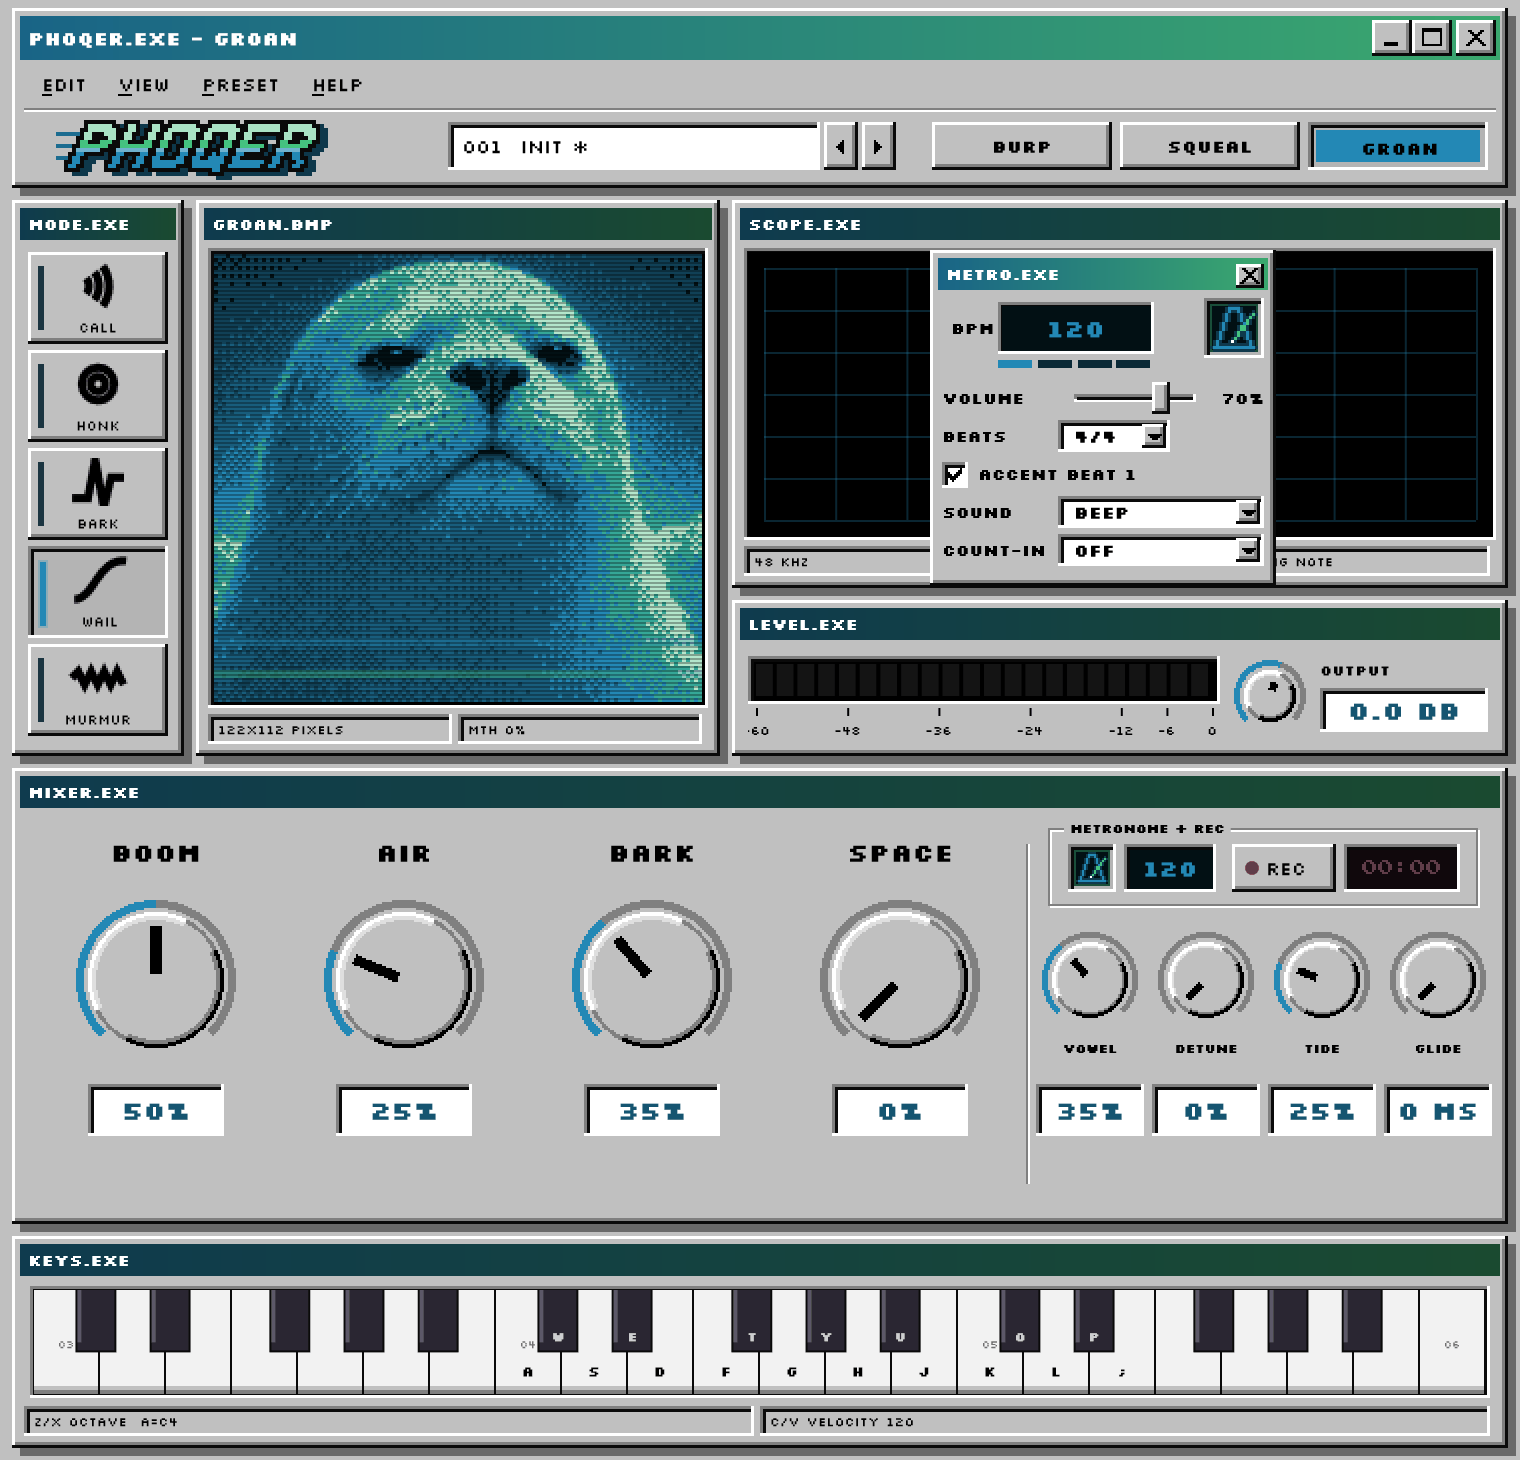
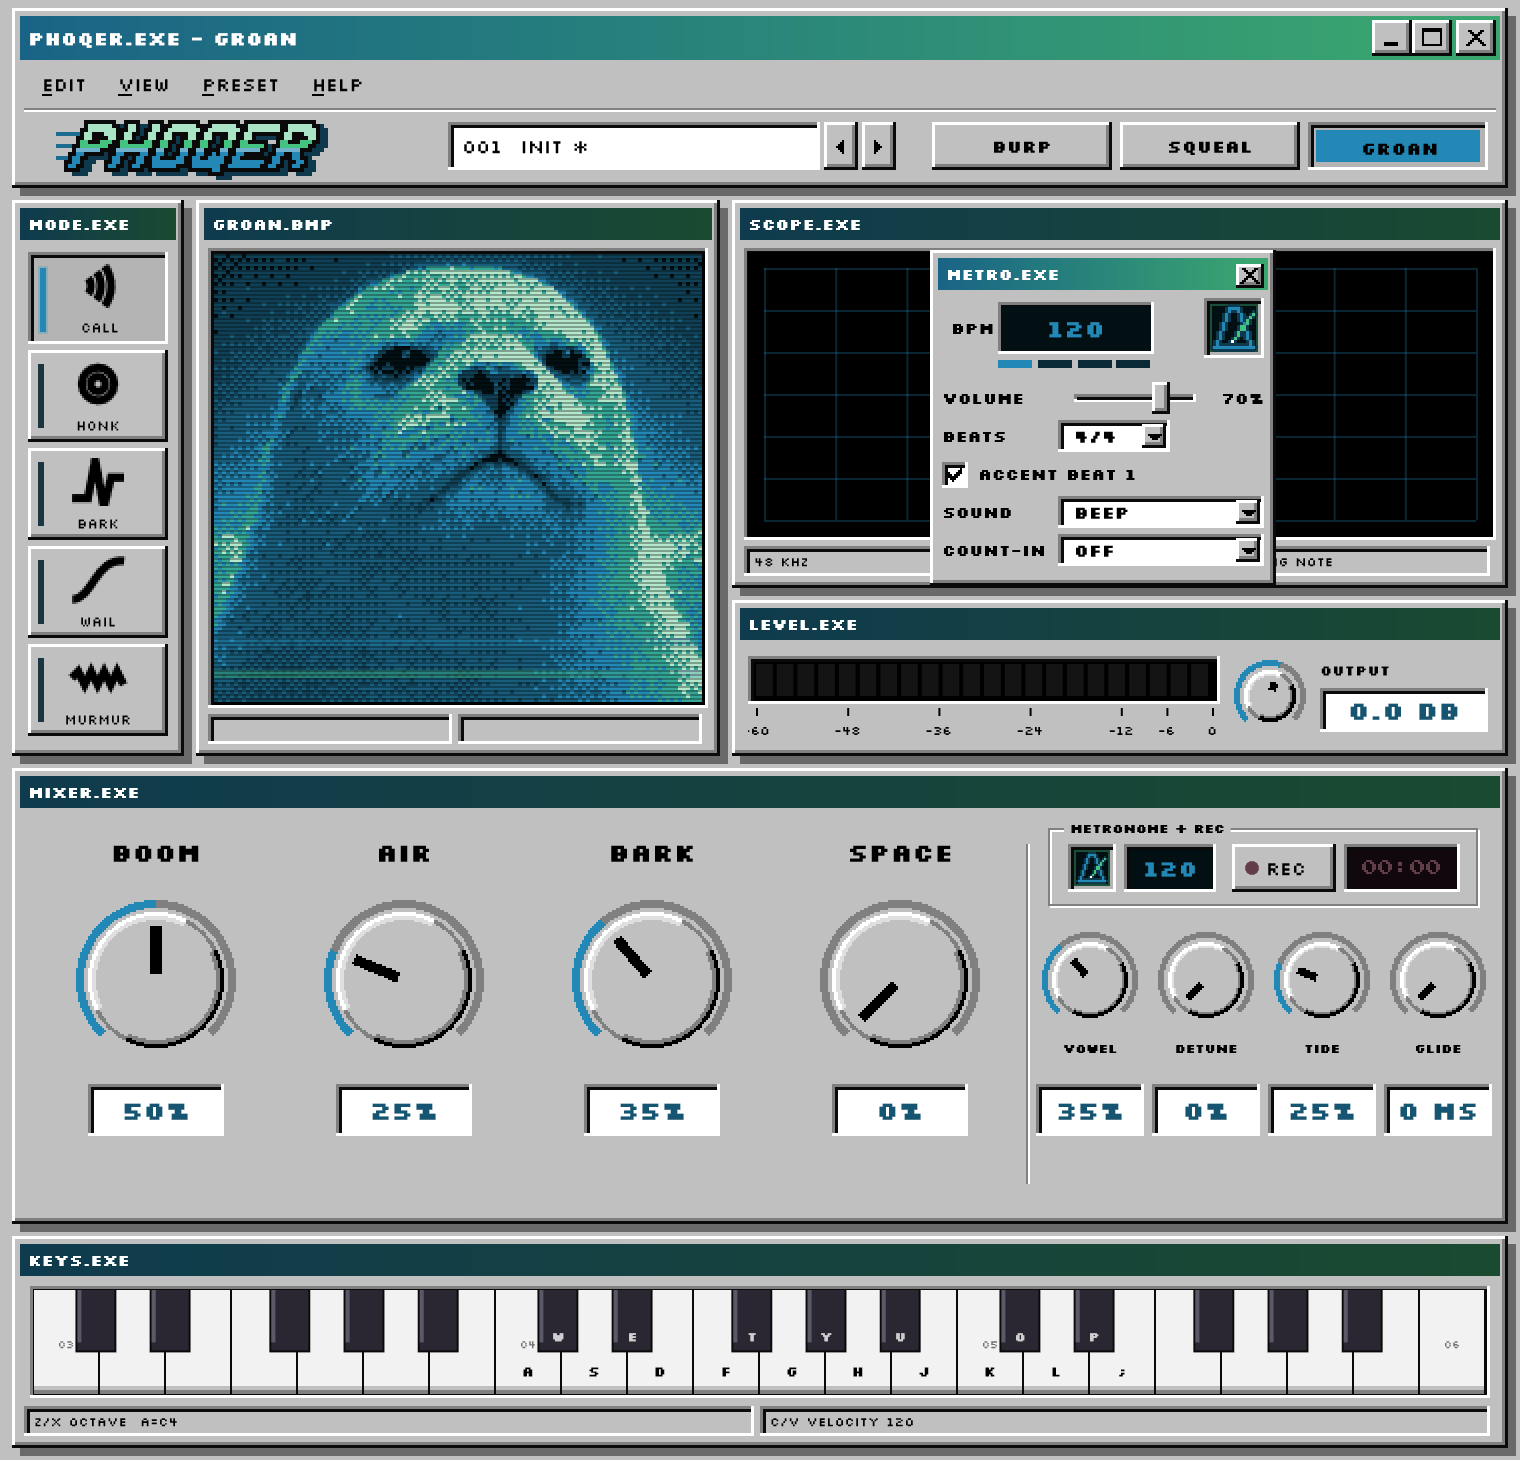
README: the full tour, with the wordmark and animated seals
Seals, moods, controls, the standalone app, presets and interface, downloads, and folded technical details, manual installation and build steps. Every seal is shown in the same mood.

Changed region(s): [[0.1546, 0.1541, 0.4638, 0.4932], [0.0, 0.1541, 0.1237, 0.2466], [0.0, 0.3699, 0.1237, 0.4623]]

diff --git a/README.md b/README.md
@@ -1,163 +1,177 @@
 <p align="center">
-  <img src="Media/PHOQER_Logo.png" width="360" alt="PHOQER: an angry pixel seal on the wordmark">
+  <img src="Media/PHOQER_Logo.png" width="340" alt="PHOQER">
 </p>
 
-<p align="center"><strong>A seal you can play.</strong><br>
-A synthetic vocal instrument for Windows: three seals, five moods, eight voices, no samples.</p>
+<p align="center"><em>A seal you can play. A synthetic vocal instrument for Windows.</em></p>
 
 <p align="center">
   <a href="https://github.com/lew0nn/phoqer/releases/tag/v1.0.0"><img alt="Version 1.0.0" src="https://img.shields.io/badge/version-1.0.0-FF2D55?style=flat-square&amp;labelColor=12040A"></a>
-  <a href="#download"><img alt="Windows x64" src="https://img.shields.io/badge/platform-Windows%20x64-E04BFF?style=flat-square&amp;labelColor=07031A"></a>
-  <a href="#download"><img alt="VST3 and standalone" src="https://img.shields.io/badge/formats-VST3%20%7C%20Standalone-2388B5?style=flat-square&amp;labelColor=021014"></a>
-  <a href="LICENSE"><img alt="GNU AGPL v3" src="https://img.shields.io/badge/license-AGPL%203.0-44C27F?style=flat-square&amp;labelColor=021014"></a>
-  <a href="https://github.com/lew0nn/phoqer/releases/latest"><img alt="Downloads" src="https://img.shields.io/github/downloads/lew0nn/phoqer/total?style=flat-square&amp;label=downloads&amp;labelColor=12040A&amp;color=FF9F1C"></a>
+  <a href="#download"><img alt="Windows x64" src="https://img.shields.io/badge/platform-Windows%20x64-0078D4?style=flat-square&amp;labelColor=17202A"></a>
+  <a href="#download"><img alt="VST3 and standalone" src="https://img.shields.io/badge/formats-VST3%20%7C%20Standalone-E04BFF?style=flat-square&amp;labelColor=07031A"></a>
+  <a href="https://github.com/juce-framework/JUCE/releases/tag/8.0.8"><img alt="JUCE 8.0.8" src="https://img.shields.io/badge/JUCE-8.0.8-00A8B5?style=flat-square&amp;labelColor=152326"></a>
+  <a href="CMakeLists.txt"><img alt="C++17" src="https://img.shields.io/badge/C%2B%2B-17-F0A030?style=flat-square&amp;labelColor=282116"></a>
+  <a href="LICENSE"><img alt="GNU AGPL v3" src="https://img.shields.io/badge/license-AGPL%203.0-44C27F?style=flat-square&amp;labelColor=021014&amp;logo=gnu&amp;logoColor=white"></a>
+  <a href="https://github.com/lew0nn/phoqer/releases/latest"><img alt="Downloads" src="https://img.shields.io/github/downloads/lew0nn/phoqer/total?style=flat-square&amp;label=downloads&amp;labelColor=12040A&amp;color=FF9F1C&amp;logo=github&amp;logoColor=white"></a>
 </p>
 
 <p align="center">
-  <img src="Media/PHOQER.png" width="100%" alt="PHOQER mid-call: BURP singing in the portrait, its wave on SCOPE.EXE, the mixer knobs and the keyboard below">
+  <img src="Media/PHOQER.gif" width="100%" alt="PHOQER switching between its three seals, BURP, SQUEAL and GROAN, each mid-call">
 </p>
 
-<p align="center"><a href="#download"><strong>Download PHOQER 1.0.0</strong></a> &middot; free and open source</p>
+<p align="center"><strong>Three seals, five moods, eight voices. No samples.</strong></p>
 
-## Meet the seals
+PHOQER builds every call while you play it. Formant-wave-function synthesis, the technique behind
+Chant and Delay Lama, makes each resonance of the seal's throat from overlapping grains, shaped by
+formant tables and pitch contours measured from real seal calls. The recordings were the reference;
+none of them are in the instrument.
+
+## Seals
 
 <p align="center">
-  <img src="Media/PHOQER_Seals.png" width="100%" alt="The three seals mid-call: BURP in red, SQUEAL in purple, GROAN in ocean blue to green">
+  <img src="Media/PHOQER_Seals.gif" width="100%" alt="BURP, SQUEAL and GROAN calling together">
 </p>
 
-- **BURP** is the bass: a low, rough bark whose growl comes from jitter and period doubling,
-  not breath. The default, and the best seal.
-- **SQUEAL** yelps: short, bright bursts that start high, drop, then lift again.
-- **GROAN** moans: a long, warm "ooh" that scoops up into the note and sways with a slow vibrato.
+- **BURP:** the bass, and the default. A low, rough bark whose growl comes from jitter and period
+  doubling, not breath.
+- **SQUEAL:** short, bright yelps that start high, drop, then lift again.
+- **GROAN:** a long, warm "ooh" that scoops up into the note and sways with a slow vibrato.
 
-None of them are recordings. Every call is built while you play it, by formant-wave-function
-synthesis, the technique behind Chant and Delay Lama: each resonance of the seal's throat is
-made of overlapping grains, shaped by formant tables and pitch contours measured from real seal
-calls. The recordings were the reference; none of them are in the instrument.
+Each seal has its own colours, and its portrait reacts as it sings.
 
-## Five moods
+## Moods
 
 How a held note behaves. HONK, BARK and WAIL keep time with your song.
 
 | Mood | What the seal does |
-|---|---|
+| --- | --- |
 | CALL | One call per note |
 | HONK | Nasal honks on 1/8 notes for as long as you hold the key |
 | BARK | Hard barks on 1/4 notes, silence between |
 | WAIL | One long glide up and back over two bars |
 | MURMUR | A muttered, closed-mouth hum |
 
-## The knobs
+## Controls
 
-| Knob | Turns the seal from... to... |
-|---|---|
-| BOOM | a small seal to a big one with more chest |
-| AIR | no breath at all to a breathy one |
-| BARK | a soft swell to a hard hit with growl |
-| SPACE | dry to a big dark cave |
+| Knob | What it does |
+| --- | --- |
+| BOOM | The seal's size: small, or big with more chest |
+| AIR | Breath, from none at all |
+| BARK | Attack and growl: a soft swell to a hard hit |
+| SPACE | Reverb: dry to a big dark cave |
 | VOWEL | OO, OH, AH, EH, EE |
-| DETUNE | one voice to a wide double |
-| TIDE | a dead-straight note to scoops and vibrato |
-| GLIDE | 0 to 2 seconds: a note played over a held one slides in from its pitch (chords don't slide) |
-| OUTPUT | the level; a limiter keeps it from clipping, so push it |
+| DETUNE | Width: one voice to a wide double |
+| TIDE | Expression: a straight note to scoops and vibrato |
+| GLIDE | 0 to 2 s: a note played over a held one slides in from its pitch; chords struck together don't slide |
+| OUTPUT | The level. A limiter holds the ceiling, so push it |
 
-## In your DAW, or on its own
+MIDI: velocity, pitch bend (two semitones), the sustain pedal (CC 64), and the mod wheel (CC 1),
+which adds TIDE on top of the knob. Every knob can be automated.
 
-**As a VST3**, PHOQER follows your project's tempo and plays eight notes at once. It answers
-to velocity, pitch bend (two semitones), the sustain pedal, and the mod wheel, which adds TIDE.
-Every knob can be automated.
+## Standalone app
 
-**As a standalone app** it brings a few things of its own:
+The standalone app adds a few things of its own:
 
-- **KEYS.EXE** turns your computer keyboard into a piano: A to ; play, Z / X change octave,
+- **KEYS.EXE** turns the computer keyboard into a piano: A to ; play, Z / X change octave,
   C / V change velocity.
 - **REC** records what you play to a WAV file.
-- **A metronome**, beside REC. Click the BPM to open METRO.EXE: tempo, volume, 2/4 to 7/4 with
-  an accented first beat, three click sounds (BEEP, WOOD and SEAL), and a one- or two-bar
-  count-in before REC starts. The click is never recorded.
+- **A metronome** beside REC. Click the BPM to open METRO.EXE: tempo, volume, 2/4 to 7/4 with an
+  accented first beat, three click sounds (BEEP, WOOD and SEAL), and a one- or two-bar count-in
+  before REC starts. The click is never recorded.
+
+In a DAW, PHOQER follows the project's tempo, and the metronome and REC are hidden.
 
 <p align="center">
-  <img src="Media/PHOQER_Standalone.png" width="100%" alt="The standalone app as GROAN, with METRO.EXE open over the scope">
+  <img src="Media/PHOQER_Standalone.png" width="100%" alt="The standalone app as GROAN, with METRO.EXE open">
 </p>
 
-## Presets
+## Presets & interface
 
-Sixteen to start from, five per seal and an INIT:
+**Sixteen factory presets: INIT and five for each seal.**
 
-`BRP FISH DEMAND` · `BRP HARBOUR BASS` · `BRP FOGHORN` · `BRP GRUMBLE` · `BRP PIER RIOT` ·
-`SQL BEACH SOLO` · `SQL PUP` · `SQL KLAXON` · `SQL PUP CHOIR` · `SQL GOSSIP` ·
-`GRN TAX AUDIT` · `GRN NIGHT TIDE` · `GRN SIREN SONG` · `GRN ICE CAVE` · `GRN HONK SHOW`
+`BRP FISH DEMAND · BRP HARBOUR BASS · BRP FOGHORN · BRP GRUMBLE · BRP PIER RIOT`<br>
+`SQL BEACH SOLO · SQL PUP · SQL KLAXON · SQL PUP CHOIR · SQL GOSSIP`<br>
+`GRN TAX AUDIT · GRN NIGHT TIDE · GRN SIREN SONG · GRN ICE CAVE · GRN HONK SHOW`
 
-Save your own as `.phqpreset` files. The menus also hold undo and redo, copying and pasting
-settings as text, reverting to the preset, a panic button, a controls guide and the keyboard
-shortcuts. Somewhere in there is a fish.
+Save your own as `.phqpreset` files. The interface is a set of Win98 programs: the seal's portrait,
+SCOPE.EXE with its waveform and spectrogram, LEVEL.EXE, MIXER.EXE and KEYS.EXE. The menus hold undo
+and redo, copying and pasting settings, reverting to the preset, a panic button, zoom, a controls
+guide and the keyboard shortcuts.
 
 ## Download
 
 ### [Windows installer](https://github.com/lew0nn/phoqer/releases/download/v1.0.0/PHOQER-1.0.0-Windows-x64-Setup.exe)
 
-Installs the VST3, the standalone app, or both. The VST3 goes to
-`C:\Program Files\Common Files\VST3`, where every DAW looks.
+Installs the VST3 plug-in, the standalone app, or both.
 
 ### [VST3](https://github.com/lew0nn/phoqer/releases/download/v1.0.0/PHOQER-1.0.0-Windows-x64-VST3.zip)
 
-The `PHOQER.vst3` bundle on its own.
+The complete `PHOQER.vst3` bundle for Windows x64 hosts.
 
 ### [Standalone](https://github.com/lew0nn/phoqer/releases/download/v1.0.0/PHOQER-1.0.0-Windows-x64-Standalone.zip)
 
-Runs without a DAW; audio and MIDI devices are set from its menu.
+Runs PHOQER without a DAW; audio and MIDI devices are set from its EDIT menu.
 
-The installer is not code-signed, so Windows SmartScreen may stop it the first time:
-choose **More info**, then **Run anyway**.
+The installer is not code-signed, so Windows SmartScreen may stop it the first time: choose
+**More info**, then **Run anyway**.
 
-## Under the hood
+## Technical details
 
 <details>
-<summary><strong>Sound and level</strong></summary>
+<summary><strong>Sound engine & level</strong></summary>
 
-Each seal is a table of formant frequencies, bandwidths and amplitudes, plus the pitch contour
-of a real call: where it starts, how it scoops and where it settles. Eight voices share one
-engine; a held note sounds for as long as the key is down, and the mood keeps moving it.
+Each seal is a table of formant frequencies, bandwidths and amplitudes, plus the pitch contour of a
+real call: where it starts, how it scoops and where it settles. Eight voices share one engine; a held
+note sounds for as long as the key is down, and the mood keeps moving it.
 
-One note at full velocity peaks near -10 dBFS. A stereo-linked lookahead limiter holds the
-output at -0.3 dBFS; it looks 2 ms ahead, which PHOQER reports to the host as latency.
+One note at full velocity peaks near -10 dBFS. A stereo-linked lookahead limiter holds the output at
+-0.3 dBFS; it looks 2 ms ahead, which PHOQER reports to the host as latency.
 
 </details>
 
 <details>
-<summary><strong>Sessions and presets</strong></summary>
+<summary><strong>Presets & state</strong></summary>
 
-Parameters have stable IDs, so sessions saved with older versions load, with any newer setting
-at its default. Presets only carry the sound: loading one never changes OUTPUT, the tempo or the
-metronome. The standalone app's tempo and metronome settings are not automatable and are hidden
-in a DAW, which has its own.
-
-</details>
-
-<details>
-<summary><strong>Tested with</strong></summary>
-
-Steinberg's VST3 validator (47 of 47 tests), plus PHOQER's own checks: the engine and the
-synthesis, chords and GLIDE, the limiter's ceiling across sample rates and block sizes, session
-recall and presets, the metronome's timing and count-in, and the built VST3 in a host across
-300 combinations of seal, mood, sample rate and block size. See [README_DEV.md](README_DEV.md).
+Host state uses stable parameter IDs, so sessions saved with earlier versions load, with any newer
+setting at its default. Presets carry the sound only: loading one never changes OUTPUT, the tempo or
+the metronome, and older presets set GLIDE back to 0. The standalone app's tempo and metronome
+settings are not automatable.
 
 </details>
 
 <details>
-<summary><strong>Install by hand</strong></summary>
+<summary><strong>Testing</strong></summary>
 
-Unzip the VST3 package and copy the whole `PHOQER.vst3` folder to
-`C:\Program Files\Common Files\VST3`, then rescan plug-ins in your DAW. For the standalone app,
-unzip the package anywhere and run `PHOQER.exe`.
+Steinberg's VST3 validator passes all 47 tests. PHOQER's own checks cover the engine and the three
+seals, chords and GLIDE, the limiter's ceiling across sample rates and block sizes, session recall
+and presets, the metronome's timing and count-in, and the built VST3 in a host across 300
+combinations of seal, mood, sample rate and block size. See [README_DEV.md](README_DEV.md).
+
+</details>
+
+<details>
+<summary><strong>Manual installation</strong></summary>
+
+### VST3
+
+Extract the VST3 package and copy the complete `PHOQER.vst3` bundle to:
+
+```text
+C:\Program Files\Common Files\VST3
+```
+
+Rescan plug-ins in the host.
+
+### Standalone
+
+Extract the standalone package and run `PHOQER.exe`. Audio and MIDI are set from EDIT ▸ AUDIO/MIDI SETUP.
 
 </details>
 
 <details>
 <summary><strong>Build from source</strong></summary>
 
-Needs Windows x64, Git, CMake 3.22 or newer, and Visual Studio 2022 with the **Desktop
-development with C++** workload. Built with C++17 and JUCE 8.0.8.
+Requirements: Windows x64, CMake 3.22+, Visual Studio 2022 with the MSVC desktop C++ toolchain, Git,
+and the pinned JUCE submodule. For the installer, [Inno Setup 6](https://jrsoftware.org/isinfo.php).
 
 ```powershell
 git clone --recurse-submodules https://github.com/lew0nn/phoqer.git
@@ -165,36 +179,26 @@ Set-Location phoqer
 powershell -ExecutionPolicy Bypass -File .\build-release.ps1
 ```
 
-That builds the VST3 and the standalone app, and the installer if
-[Inno Setup 6](https://jrsoftware.org/isinfo.php) is installed; everything lands in
-`dist\release`. To build without the installer:
+The installer and the VST3 and standalone zips are written to `dist\release`. Without Inno Setup the
+script still builds the zips.
 
-```powershell
-cmake -S . -B build -G "Visual Studio 17 2022" -A x64
-cmake --build build --config Release --target PHOQER_VST3 PHOQER_Standalone
-```
-
-For that plain build, keep the repository path free of parentheses: JUCE's Windows resource
-step passes it through MSBuild unquoted (`build-release.ps1` works around it). Engine notes and the check programs are in [README_DEV.md](README_DEV.md).
+Built with C++17, JUCE 8.0.8 and CMake.
 
 </details>
 
 ## License
 
-PHOQER's code, documentation and project assets are free software under the
-[GNU AGPL v3](LICENSE) (`AGPL-3.0-only`), copyright 2026 lewonn / LWNX DSP.
+<p align="center">
+  <strong><a href="LICENSE">GNU Affero General Public License v3.0</a></strong>
+</p>
 
-Use it to make and release music however you like: no credit needed, no royalties. If you
-share PHOQER itself or a changed version, the AGPL's source, licence and notice terms apply.
+<p align="center">PHOQER's original source code and project assets are free and open-source software.<br>
+Make and release music with it however you like: no credit needed, no royalties.</p>
 
-JUCE, the VST3 SDK, Roboto and the other third-party parts keep their own licences: see
-[THIRD_PARTY_NOTICES.md](THIRD_PARTY_NOTICES.md). VST is a trademark of Steinberg Media
-Technologies GmbH, registered in Europe and other countries.
+<p align="center">JUCE and all other third-party components retain their respective licences.<br>See <a href="THIRD_PARTY_NOTICES.md">Third-Party Notices</a>.</p>
 
-## Feedback
+<p align="center"><sub>Copyright © 2026 lewonn / LWNX DSP. VST is a trademark of Steinberg Media Technologies GmbH.</sub></p>
 
-Bug reports and sound ideas are welcome in [Issues](https://github.com/lew0nn/phoqer/issues).
-For anything audio, say which DAW, sample rate, notes and settings. Before sending code or
-assets, read [CONTRIBUTING.md](CONTRIBUTING.md).
+<p align="center">Bugs and sound ideas: <a href="https://github.com/lew0nn/phoqer/issues">Issues</a> · <a href="CONTRIBUTING.md">Contributing</a></p>
 
-<p align="center"><sub>PHOQER 1.0.0 · LWNX DSP</sub></p>
+<p align="center"><strong>PHOQER 1.0.0 · LWNX DSP</strong></p>
